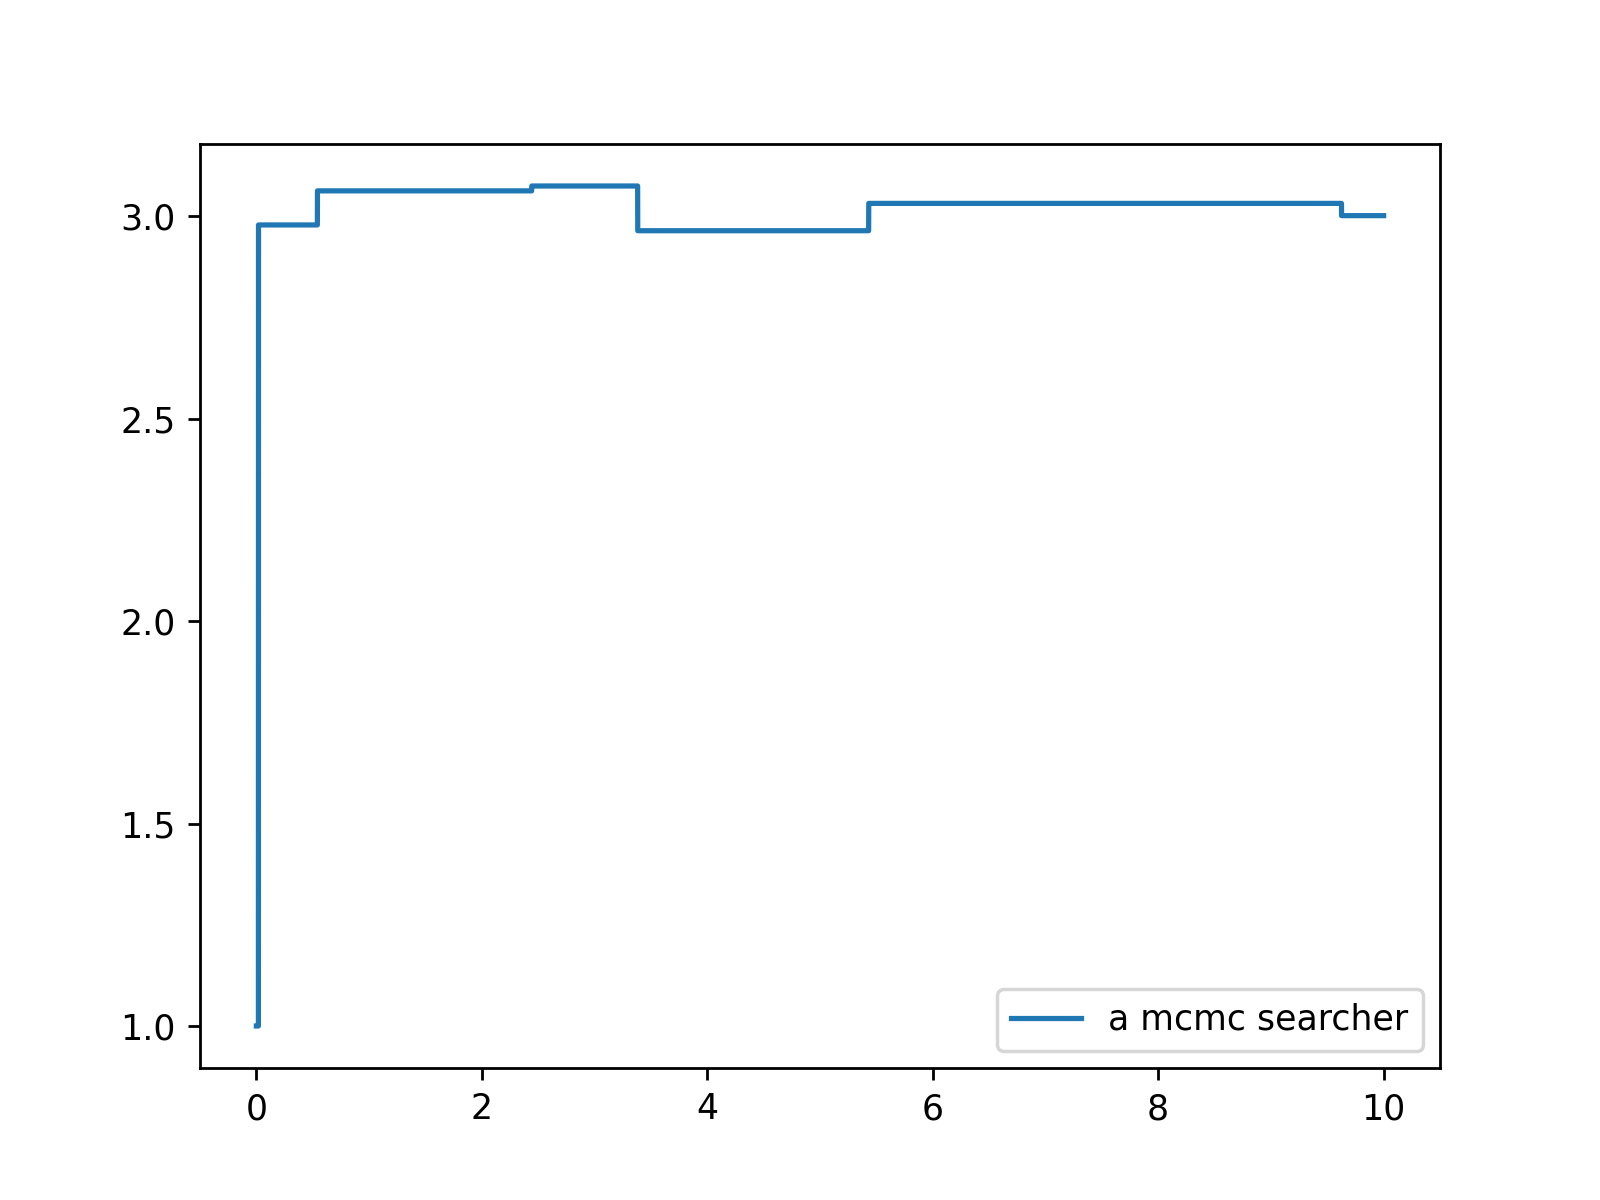
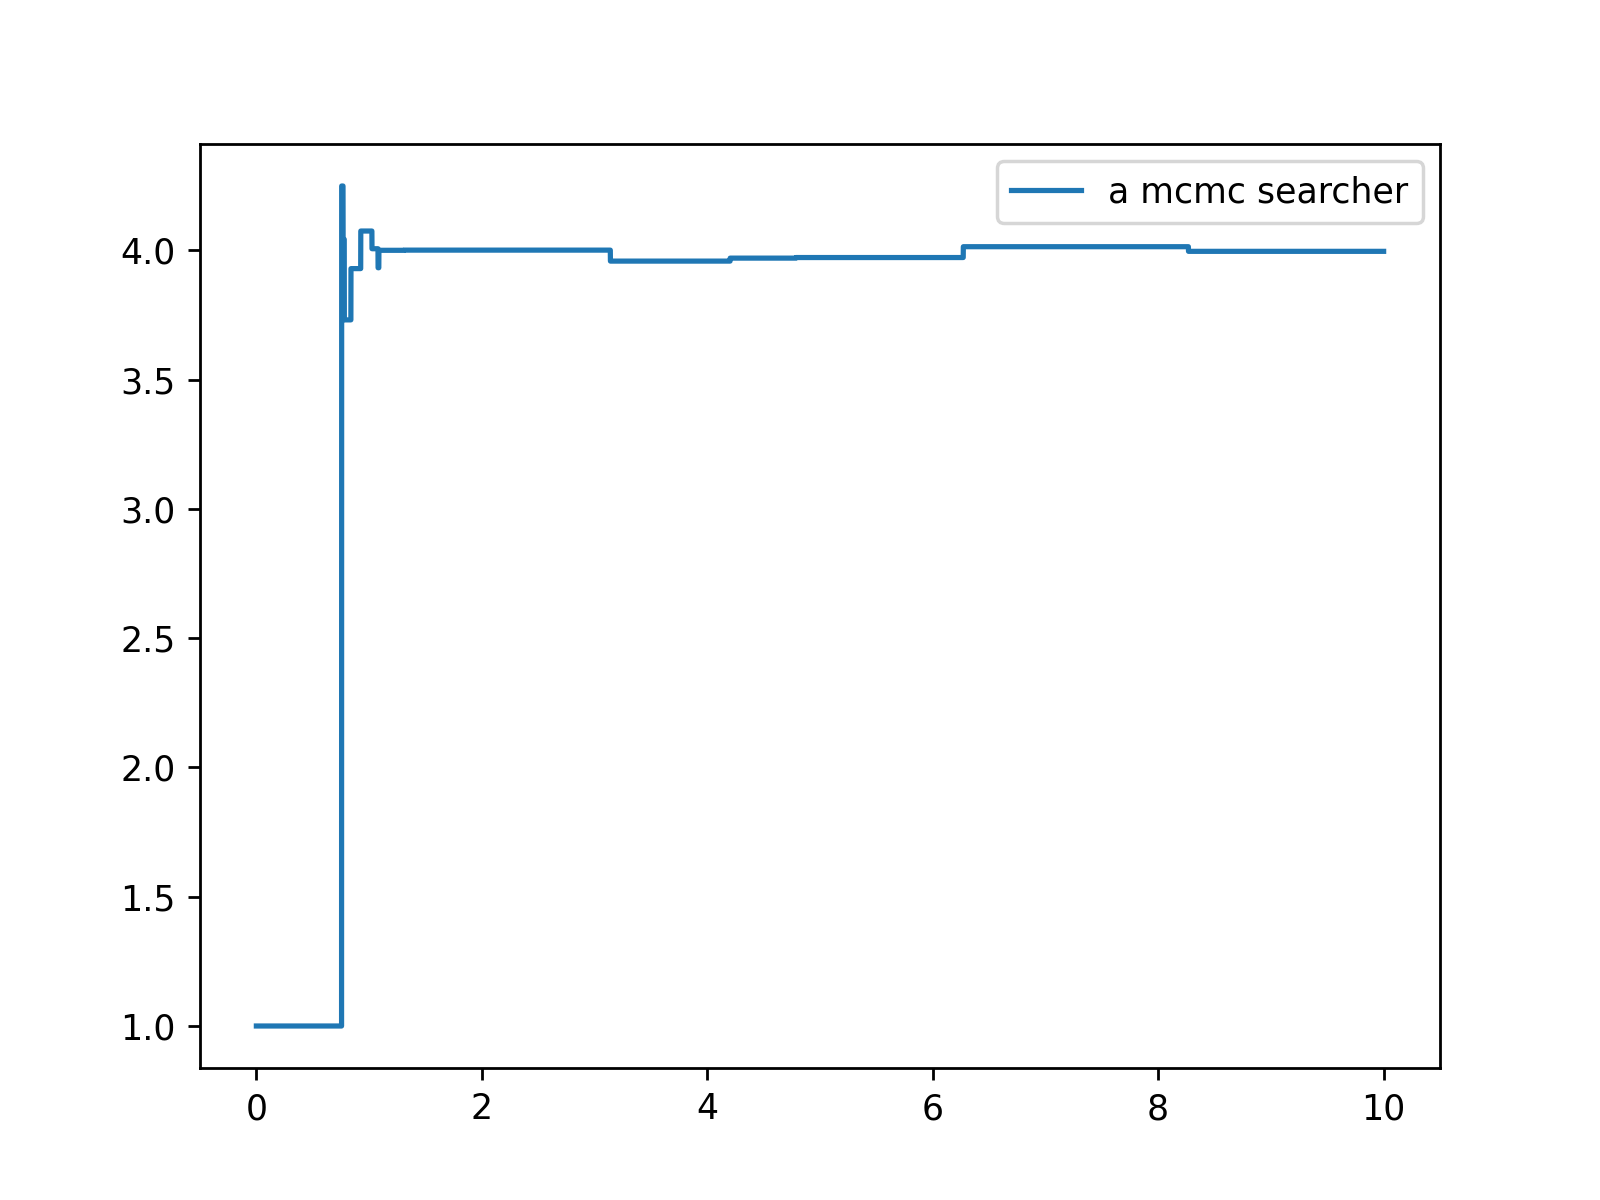
New changes, more steppers

diff --git a/mh_mcmc1.py b/mh_mcmc1.py
@@ -9,7 +9,7 @@ global sigma_proposal, times, y, y_err
 sigma_proposal = 2
 
 # generate some fake data
-times = np.linspace(0, 10, 10000)
+times = np.linspace(0, 10, 50000)
 m_true = (np.random.randint(1,10),np.random.randint(1,10),np.random.randint(1,10))
 y = m_true[0] * times**2 + m_true[1]*times + m_true[2] 
 y_err = 25
@@ -80,7 +80,7 @@ if __name__ == "__main__":
     np.random.seed(10)
 
     m_initial_guess = (1,1,1)
-    num_steps = 10000
+    num_steps = 50000
 
     markov_chain = mh_mcmc(m_initial_guess=m_initial_guess, num_steps=num_steps)
     a_best = np.mean(markov_chain[:,0])
